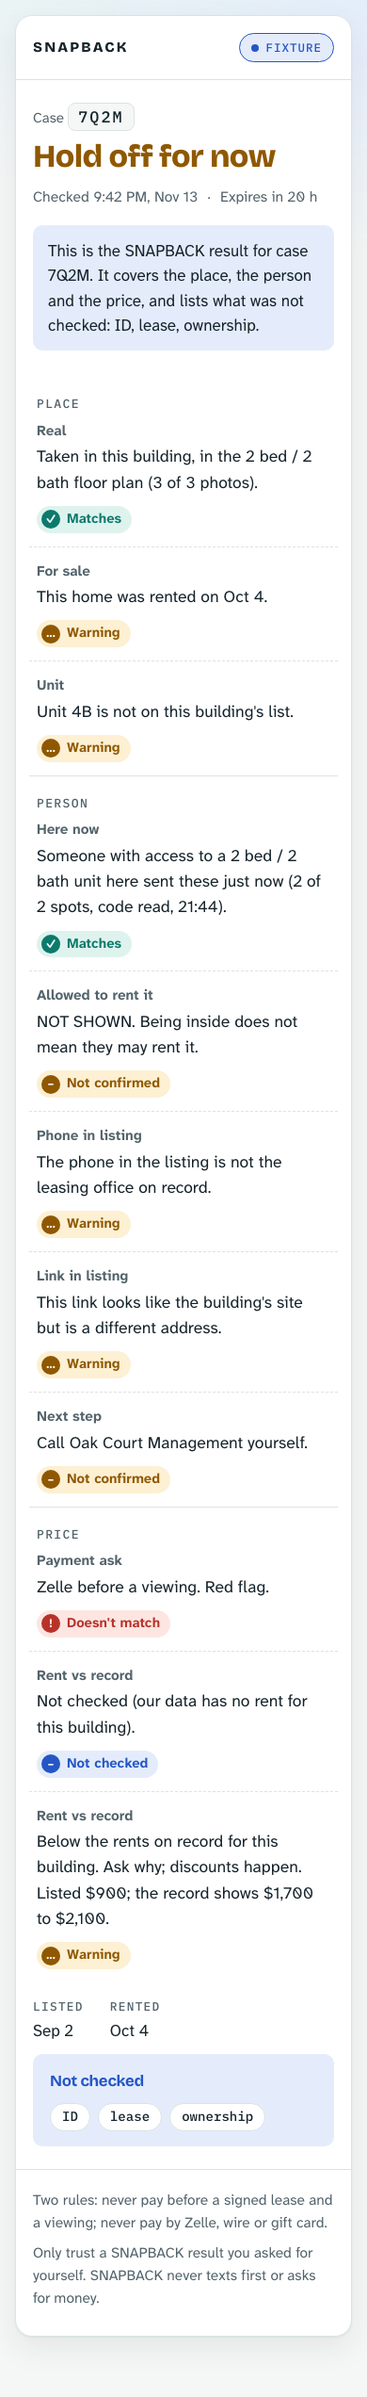
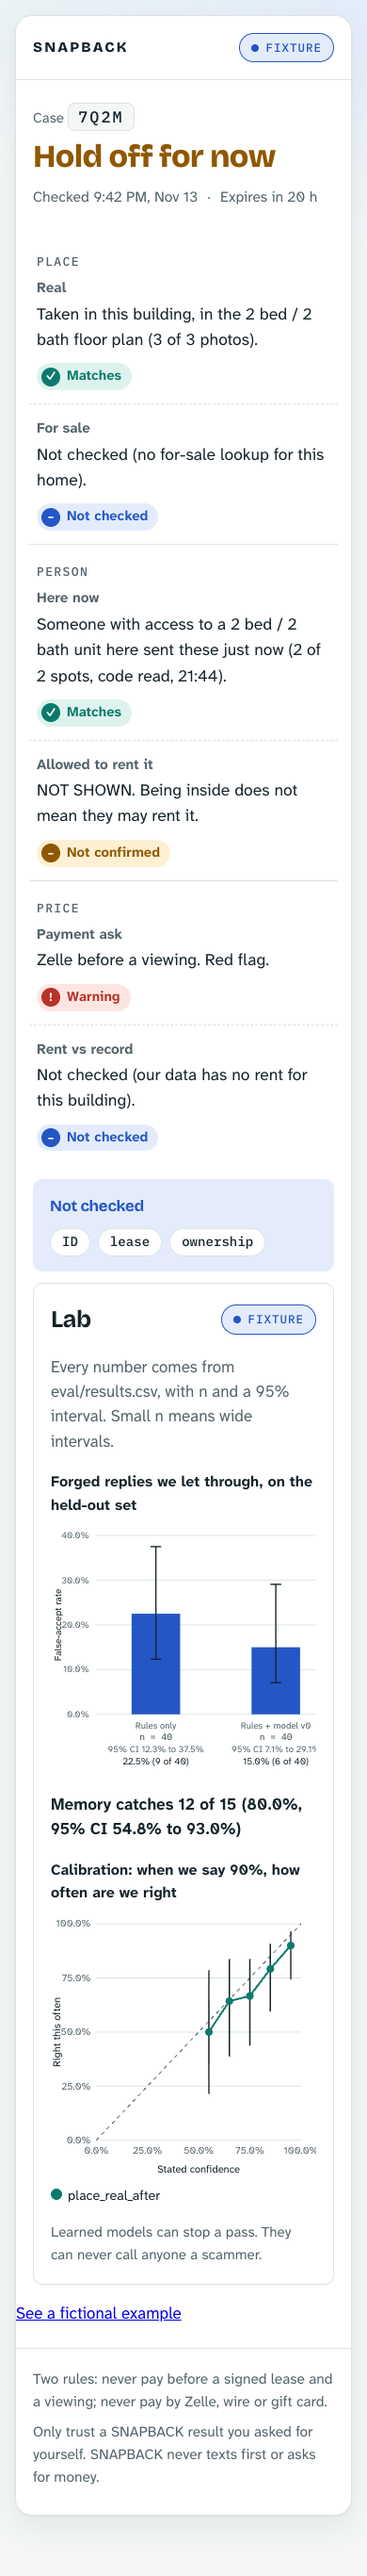
T housekeeping: #57 trace fixture, sidecar tests in CI (#108)
T housekeeping: #57 trace fixture options exact; sidecar tests in CI; refreshed T8 screenshots.

Changed region(s): [[0.0615, 0.0, 0.9231, 0.9627], [0.4615, 0.7453, 0.8308, 0.8074]]

diff --git a/tests/test_agent.py b/tests/test_agent.py
@@ -142,12 +142,7 @@ def test_trace_for_the_hold_fixture_has_the_shape_of_the_fixture_trace():
     for built, expected in zip(events, FIXTURE_TRACE, strict=True):
         assert built.case_id == expected.case_id
         assert built.source == expected.source
-        if expected.choice is ChoiceKind.WHICH_CHECKS:
-            # The recorded trace lists "state only" for this case. It is now offered only for a
-            # short-term or commercial listing, so an ordinary rental has the other two.
-            assert built.options == [o for o in expected.options if o != "state only"]
-        else:
-            assert built.options == expected.options
+        assert built.options == expected.options
         assert built.reason
         if expected.choice is ChoiceKind.WHICH_SPOT:
             assert built.pick in expected.options  # a random draw
